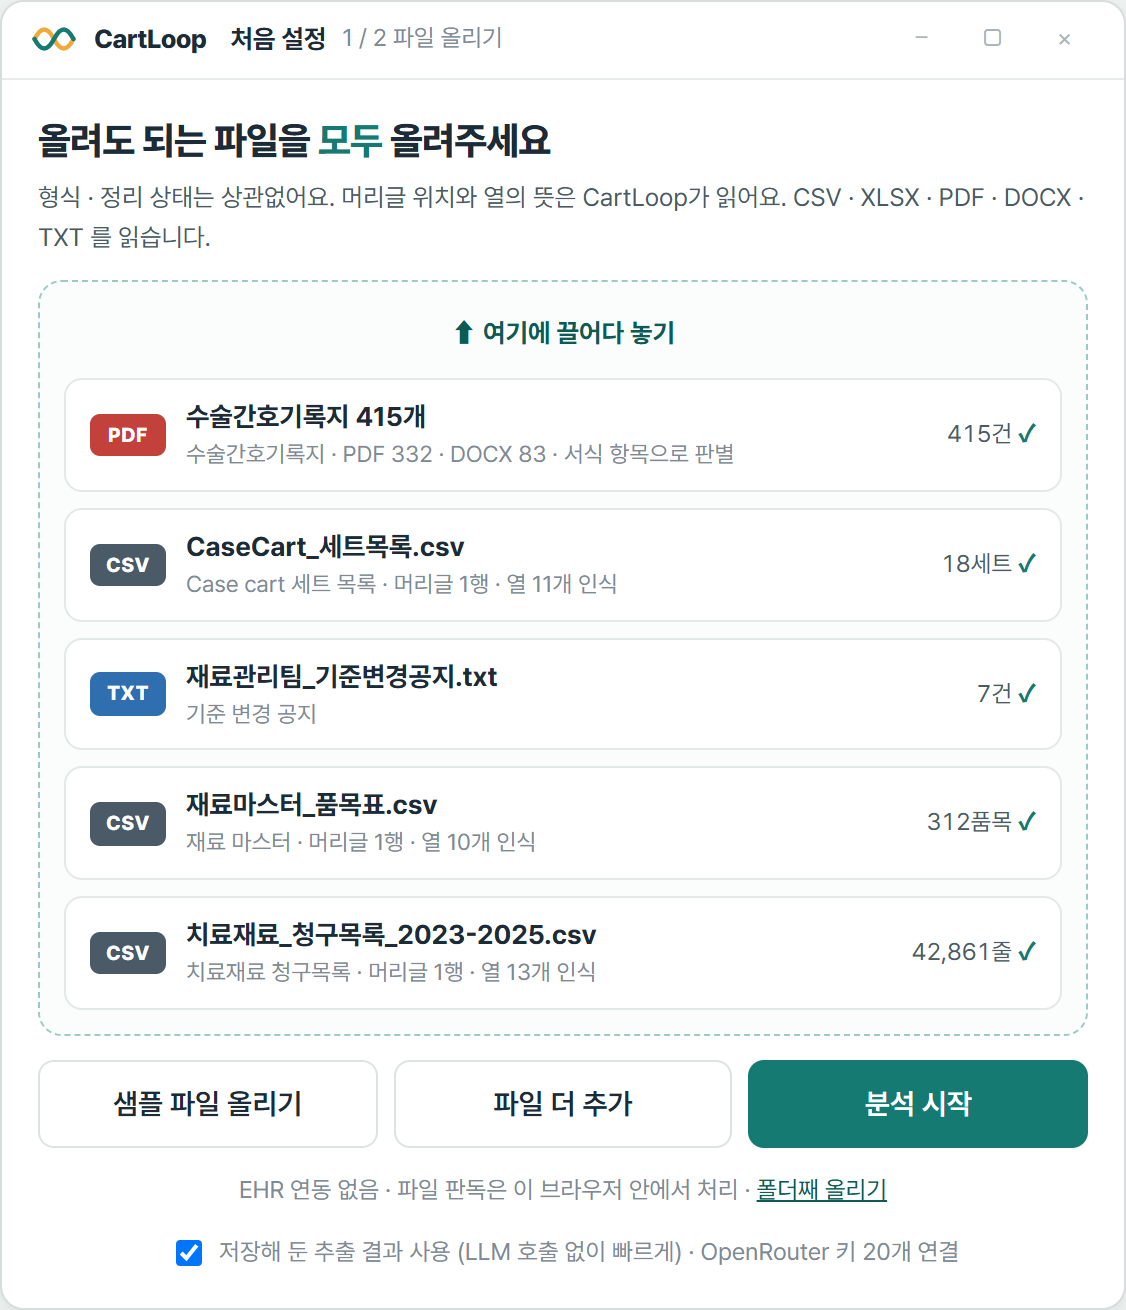
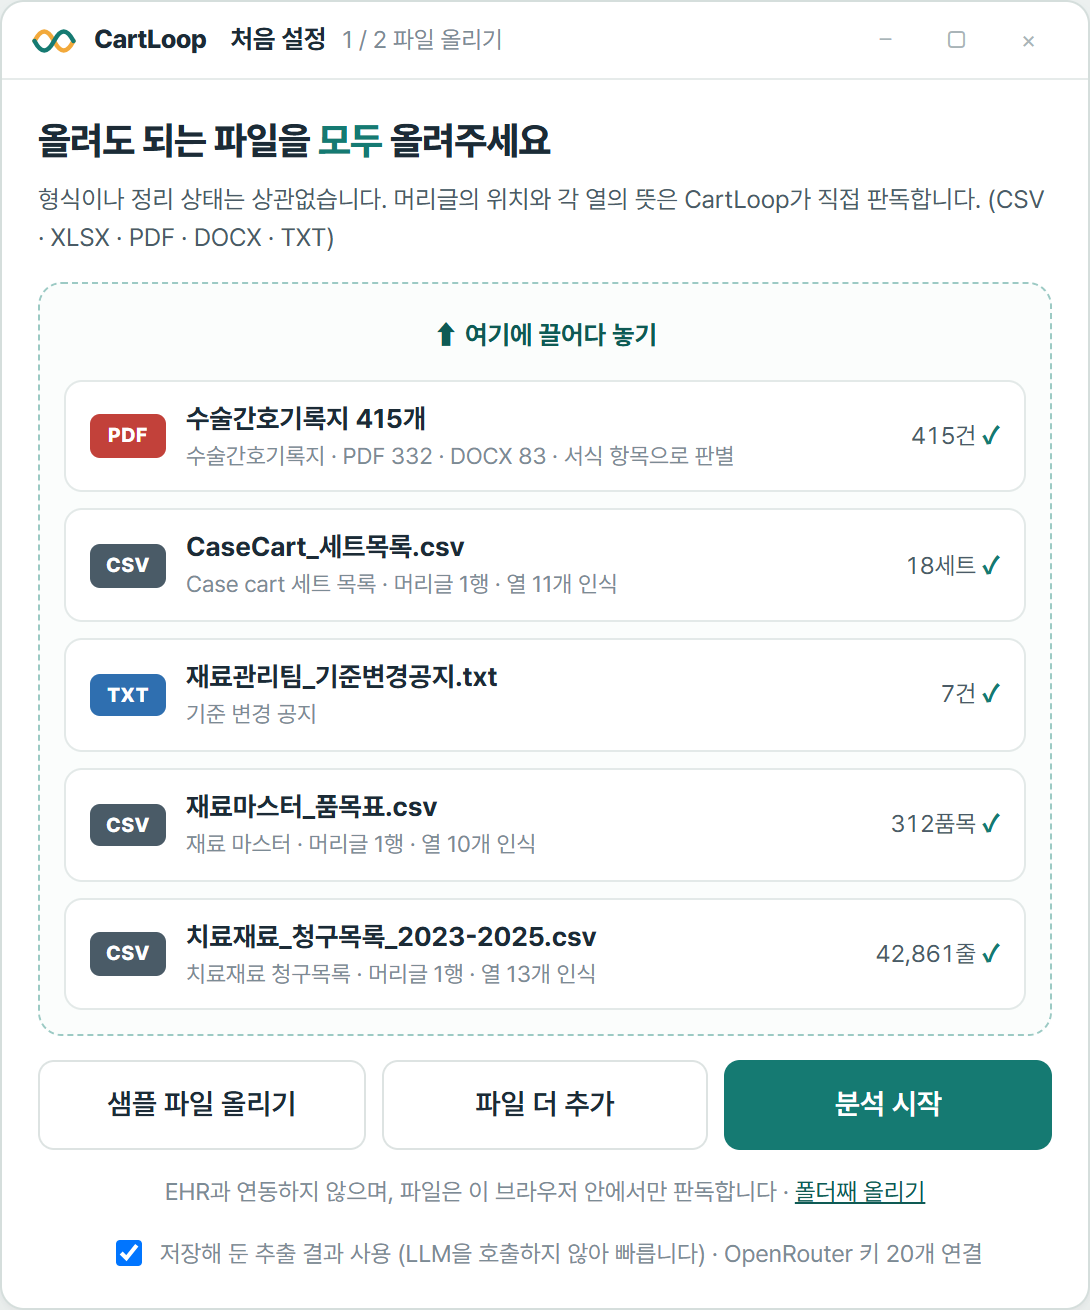
발표 자료 갱신 도구와 새 화면 캡처 추가
- tools/update_deck.py: 원본 백업에서 그림 교체, 어긋난 숫자 수정, 자리표시 제거, 검증 결과 입력을 한 번에 수행
- 캡처 도구를 바탕화면 구조에 맞게 수정 (HIS 창, CartLoop 도우미 창, 바탕화면 전체)
- 발표용 화면 캡처를 현재 화면으로 교체

diff --git a/tools/update_deck.py b/tools/update_deck.py
@@ -1,0 +1,94 @@
+# -*- coding: utf-8 -*-
+"""발표 자료를 현재 서비스에 맞춘다: 화면 그림 교체 + 화면과 어긋나는 숫자 · 자리표시 정리.
+
+  python tools/update_deck.py <원본 pptx> <결과 pptx> <캡처 폴더>
+
+원본은 건드리지 않고 결과 파일을 새로 쓴다. 바꾼 내용은 모두 화면에 출력한다.
+"""
+import io, os, sys
+sys.stdout = io.TextIOWrapper(sys.stdout.buffer, encoding='utf-8')
+from pptx import Presentation
+from pptx.util import Emu
+from PIL import Image
+
+PT = 12700
+A = '{http://schemas.openxmlformats.org/drawingml/2006/main}'
+IMAGES = {  # 슬라이드 → [(그림 이름, 캡처)]
+    18: [('Picture 27', '18-left-upload'), ('Picture 31', '18-right-result')],
+    19: [('Picture 27', '19-left-ehr'), ('Picture 31', '19-right-assist')],
+    20: [('Picture 27', '20-left-evidence'), ('Picture 31', '20-right-proposal')],
+    21: [('Picture 27', '21-left-ask'), ('Picture 30', '21-right-update')],
+    22: [('입력 화면 (파일 업로드)', '18-left-upload'), ('출력 화면 ① 청구 대조 알림', '19-right-assist'), ('출력 화면 ② 세트 개정안', '20-right-proposal')],
+    23: [('그림 97', '23-desktop')],
+}
+TEXTS = {  # 슬라이드 → [(도형 이름, 옛 글의 일부, 새 글)]
+    18: [('TextBox 35', 'xlsx 원본', '파일 이름이 아니라 머리글과 열의 뜻으로 판별. PDF · DOCX 기록지는 서식 항목으로 판별'),
+         ('TextBox 38', '980종', '표기 470종 → 89개 코드'),
+         ('TextBox 43', '126개', '지난 기록에서 확인할 항목 43개 · 빠진 금액 추정 432만 원 (가상 금액)')],
+    19: [('TextBox 35', '기록 6줄', '기록 8줄 · 청구 41줄. EHR DB에는 접근하지 않음'),
+         ('TextBox 39', '314BBM02', '"Cresent cage 30mm H14" → F1757850. 청구 목록에 없으면 누락, 수량이 다르면 불일치')],
+    21: [('TextBox 29', '3개월 v3', 'Loop DB 갱신 — 설치 때 v1 → 3개월 뒤 v4'),
+         ('TextBox 38', '+117건', '수술 +101건, 새 표기 +78종. 사람이 입력한 것 없음')],
+}
+RESULTS_25 = ['99.99 %', '100 %', '0 %']
+TABLE_25 = {'A-1': '99.99% (10,415 / 10,416 필드)', 'A-2': '표기 100% (547 / 547) · 줄 100% (1,699 / 1,699)', 'A-3': '100% (504 / 504 항목)',
+            'B-1': '재현율 100% (30 / 30) · 정밀도 100%', 'B-2': '100% (23 / 23) · 오탐 0건', 'B-3': '제안 3건 모두 정답과 일치 (설치 시점 2 · 3개월 뒤 1)'}
+NOTE_25 = '시험 재료: 가상 수술 1,240건(청구 42,861줄) · 수술간호기록지 415건 · 재료 마스터 312품목 · 심어 둔 오류 53건.  정답지와 서비스를 같은 팀이 만들어 맞춘 결과이며, 독립 검증은 아님'
+
+def set_text(tf, text):
+    # 첫 문단 · 첫 글자 묶음의 서식을 그대로 두고 글만 바꾼다
+    p0 = tf.paragraphs[0]
+    for p in tf.paragraphs[1:]: p._p.getparent().remove(p._p)
+    runs = p0.runs
+    if not runs: p0.text = text; return
+    runs[0].text = text
+    for r in runs[1:]: r._r.getparent().remove(r._r)
+
+def main(src, dst, shots):
+    prs = Presentation(src)
+    for no, items in IMAGES.items():
+        slide = prs.slides[no - 1]
+        for name, shot in items:
+            pic = next((s for s in slide.shapes if s.name == name and s.shape_type == 13), None)
+            img = os.path.join(shots, shot + '.png')
+            if pic is None or not os.path.exists(img): print(f'!! {no}장 {name}: 찾지 못함'); continue
+            w, h = Image.open(img).size
+            scale = min(pic.width / w, pic.height / h)
+            nw, nh = int(w * scale), int(h * scale)
+            _, rid = slide.part.get_or_add_image_part(img)
+            bf = pic._element.blipFill; bf.blip.rEmbed = rid
+            src_rect = bf.find(A + 'srcRect')
+            if src_rect is not None: bf.remove(src_rect)
+            pic.left = Emu(pic.left + (pic.width - nw) // 2); pic.width, pic.height = Emu(nw), Emu(nh)
+            print(f'{no}장 그림 {name} ← {shot}.png ({nw // PT}x{nh // PT}pt)')
+    for no, items in TEXTS.items():
+        slide = prs.slides[no - 1]
+        for name, part, new in items:
+            sh = next((s for s in slide.shapes if s.name == name and s.has_text_frame and part in s.text_frame.text), None)
+            if sh is None: print(f'!! {no}장 {name}: "{part}" 글을 찾지 못함'); continue
+            old = sh.text_frame.text.replace('\n', ' '); set_text(sh.text_frame, new)
+            print(f'{no}장 글 "{old}" → "{new}"')
+    # 자리표시 지우기: 빨간 "예시" 상자, "실제 구현 화면 캡처로 교체 가능" 표시, 23장의 겹치는 로고
+    for no in range(18, 23):
+        slide = prs.slides[no - 1]
+        for sh in list(slide.shapes):
+            if sh.has_text_frame and sh.text_frame.text.strip() == '예시' or sh.name == 'TODO marker':
+                print(f'{no}장 지움: {sh.name} "{sh.text_frame.text.strip()}"'); sh._element.getparent().remove(sh._element)
+    s23 = prs.slides[22]
+    for sh in list(s23.shapes):
+        if sh.shape_type == 13 and sh.name != '그림 97': print(f'23장 지움: {sh.name} (화면 그림 위에 겹치는 로고)'); sh._element.getparent().remove(sh._element)
+    # 25장: 측정값
+    s25 = prs.slides[24]
+    todo = sorted([s for s in s25.shapes if s.name == 'result TODO'], key=lambda s: s.left)
+    for sh, v in zip(todo, RESULTS_25): set_text(sh.text_frame, v); print(f'25장 값 {v}')
+    for sh in s25.shapes:
+        if sh.shape_type == 19:
+            for row in sh.table.rows:
+                key = row.cells[0].text_frame.text.strip()
+                if key in TABLE_25: set_text(row.cells[len(row.cells) - 1].text_frame, TABLE_25[key]); print(f'25장 표 {key}: {TABLE_25[key]}')
+        elif sh.has_text_frame and sh.text_frame.text.startswith('시험 재료'):
+            set_text(sh.text_frame, NOTE_25); print('25장 각주 수정')
+    prs.save(dst); print('저장:', os.path.basename(dst))
+
+if __name__ == '__main__':
+    main(*sys.argv[1:4])
